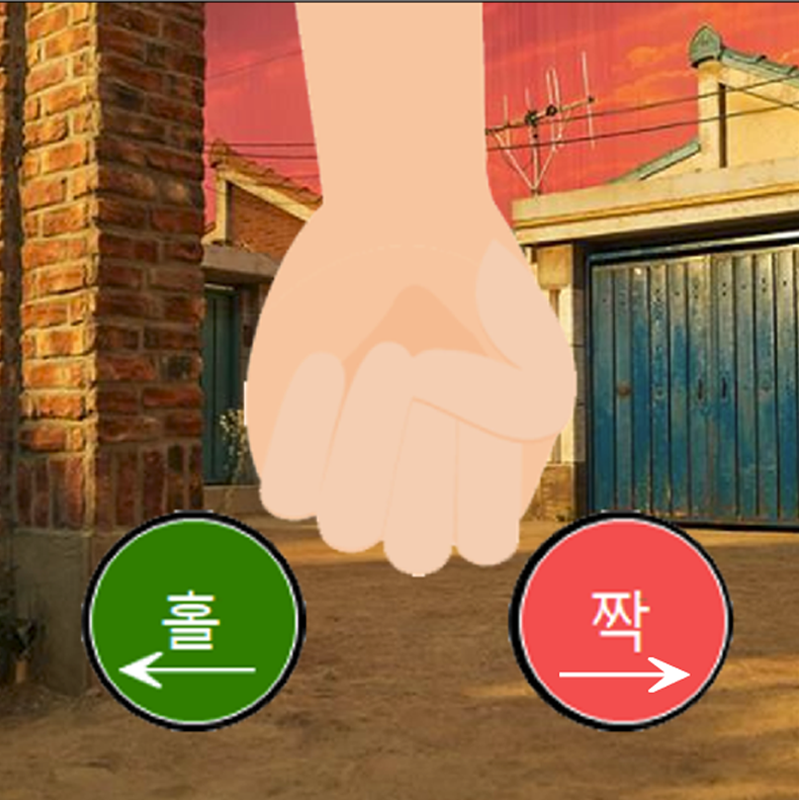
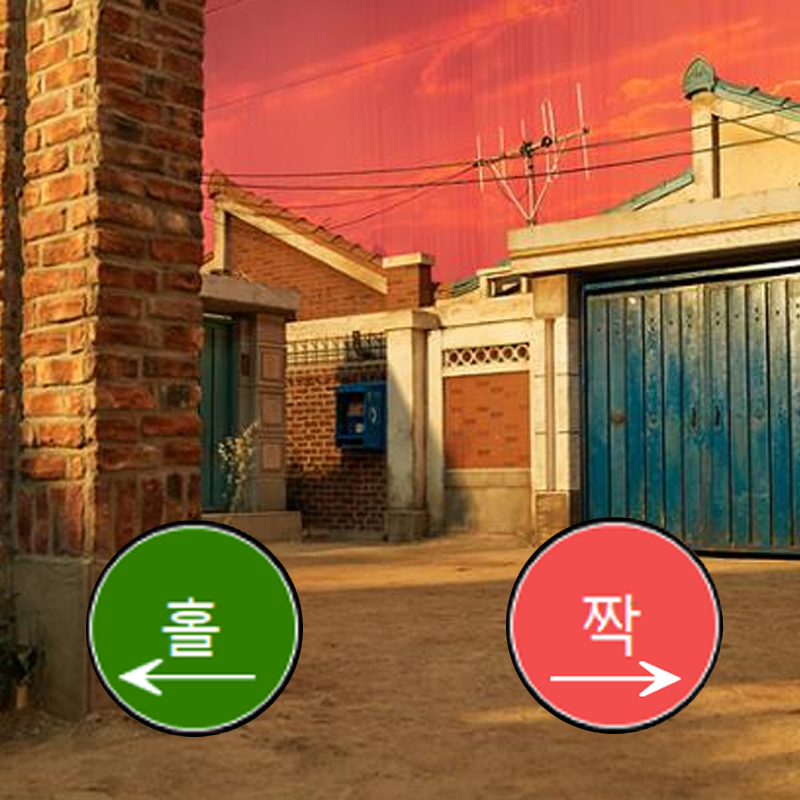
11.07 이준영 marble_game edit

diff --git a/Games/MarbleGame/marble_game.py b/Games/MarbleGame/marble_game.py
@@ -15,15 +15,23 @@ class MarbleGame:
     screen_buffer = 0  # 화면 대기 구현 변수
     marble_game_timer = 0
     fail_eff = 0
-    fail_eff_x = random.randint(-20, 20)
-    fail_eff_y = random.randint(-10, 10)
+    fail_eff_x = 0 #random.randint(-20, 20)
+    fail_eff_y = 0 #random.randint(-10, 10)
     xlocation = []  # 추후 상대 위치 리스트 만들기
     ylocation = []  # 추후 상대 위치 리스트 만들기
     score=0
     # 이미지 로딩
     imgBG = pygame.image.load("bg/bg.png")  # 배경 이미지
+    imgBGbase=pygame.image.load("bg/bgbase.png")
     imgTrue = pygame.image.load("imgs/True.png")  # 배팅 성공 이미지
     imgFalse = pygame.image.load("imgs/False.png")  # 배팅 실패 이미지
+    imgStart = pygame.image.load("imgs/gamestart.png")
+    imgHand1 = pygame.image.load("imgs/hand1.png")
+    imgHand2 = pygame.image.load("imgs/hand2.png")
+    imgHand3 = pygame.image.load("imgs/hand3.png")
+    imgHand4 = pygame.image.load("imgs/hand4.png")
+    imgHand5 = pygame.image.load("imgs/hand5.png")
+    imgNPC=pygame.image.load("imgs/NPC.png")
     gganbuplay=False
 
     def __init__(self,width,height):
@@ -50,23 +58,27 @@ class MarbleGame:
                                      self.ref_w, self.ref_h)
         message_to_screen_center(self.game_screen, '[ 조작법 ]', WHITE, korean_font_small_size,
                                      self.game_screen.get_height() / 3, self.ref_w, self.ref_h)
-        message_to_screen_center(self.game_screen, '상하 방향키로 구슬 선택', WHITE, korean_font_small_size,
+        message_to_screen_center(self.game_screen, '↑↓ 방향키로 구슬 선택', WHITE, korean_font_small_size,
                                      self.game_screen.get_height() / 2, self.ref_w, self.ref_h)
-        message_to_screen_center(self.game_screen, '좌우 방향키로 홀짝 선택', WHITE, korean_font_small_size,
-                                     self.game_screen.get_height() / 1.5, self.ref_w, self.ref_h)
+        message_to_screen_center(self.game_screen, '←→ 방향키로 홀짝 선택', WHITE, korean_font_small_size,
+                                     self.game_screen.get_height() / 1.7, self.ref_w, self.ref_h)
+        message_to_screen_center(self.game_screen, 'Enter&Return 키로 홀짝 힌트', WHITE, korean_font_small_size,
+                                 self.game_screen.get_height() / 1.5, self.ref_w, self.ref_h)
         message_to_screen_center(self.game_screen, 'Press Space Key', WHITE, korean_font_small_size,
                                      self.game_screen.get_height() / 1.25, self.ref_w, self.ref_h)
         self.score = 0
     def draw_game_over(self):
-        pygame.mixer.music.stop()
         self.game_screen.fill(BLACK)
-        message_to_screen_center(self.game_screen, "GAME OVER", WHITE, korean_font,
-                                 self.game_screen.get_height() / 4, self.ref_w, self.ref_h)
-        message_to_screen_center(self.game_screen, 'Press Enter or Return Key', WHITE, korean_font_small_size,
-                                 self.game_screen.get_height() / 1.25, self.ref_w, self.ref_h)
-        message_to_screen_left(self.game_screen, "SCORE : " + str(self.score), WHITE, korean_font,
-                               self.game_screen.get_width() / 2, self.game_screen.get_height() / 2, self.ref_w,
-                               self.ref_h)
+        self.imgNPC = pygame.transform.scale(self.imgNPC,(self.game_screen.get_width(), self.game_screen.get_height()))
+        self.game_screen.blit(self.imgNPC, [0, 0])
+        if self.screen_buffer <= self.marble_game_timer - 20:
+            self.game_screen.fill(BLACK)
+            if self.screen_buffer <= self.marble_game_timer - 30:
+                pygame.mixer.music.stop()
+                message_to_screen_center(self.game_screen, "GAME OVER", WHITE, korean_font,self.game_screen.get_height() / 4, self.ref_w, self.ref_h)
+                message_to_screen_center(self.game_screen, 'Press Enter or Return Key', WHITE, korean_font_small_size,self.game_screen.get_height() / 1.25, self.ref_w, self.ref_h)
+                message_to_screen_left(self.game_screen, "SCORE : " + str(self.score), WHITE, korean_font,self.game_screen.get_width() / 2, self.game_screen.get_height() / 2, self.ref_w,
+                                           self.ref_h)
     def level_up(self,score=0):
         self.game_screen.fill(BLACK)
         message_to_screen_center(self.game_screen, 'YOU WIN! LEVEL UP!', WHITE, korean_font,self.game_screen.get_height() / 4, self.ref_w, self.ref_h)
@@ -93,9 +105,10 @@ class MarbleGame:
                     self.player_betting = 1
                     self.idx = 1
                     if self.player_beads <= 0:
+                        self.marble_game_timer=0
+                        self.screen_buffer = self.marble_game_timer
                         self.idx = 13
                     if self.computer_beads <= 0:
-                        self.screen_buffer = self.marble_game_timer
                         self.idx = 11
             else:
                 self.imgFalse = pygame.transform.scale(self.imgFalse, (
@@ -110,9 +123,10 @@ class MarbleGame:
                     self.player_betting = 1
                     self.idx = 1
                     if self.player_beads <= 0:
+                        self.marble_game_timer = 0
+                        self.screen_buffer = self.marble_game_timer
                         self.idx = 13
                     if self.computer_beads <= 0:
-                        self.screen_buffer = self.marble_game_timer
                         self.idx = 11
     def draw_clear(self):
         pygame.mixer.music.stop()
@@ -138,6 +152,32 @@ class MarbleGame:
                 self.marble_game_timer = 0
                 self.screen_buffer=0
                 self.idx = 11
+    def draw_hand(self):
+        self.imgBGbase = pygame.transform.scale(self.imgBGbase,(self.game_screen.get_width(), self.game_screen.get_height()))
+        self.game_screen.blit(self.imgBGbase, [0, 0])
+        self.imgHand1 = pygame.transform.scale(self.imgHand1,(self.game_screen.get_width(), self.game_screen.get_height()))
+        self.game_screen.blit(self.imgHand1, [0, 0])
+        if self.screen_buffer <= self.marble_game_timer - 10:
+            self.game_screen.blit(self.imgBGbase, [0, 0])
+            self.imgHand3 = pygame.transform.scale(self.imgHand3,(self.game_screen.get_width(), self.game_screen.get_height()))
+            self.game_screen.blit(self.imgHand3, [0, 0])
+            if self.screen_buffer <= self.marble_game_timer - 15:
+                self.game_screen.blit(self.imgBGbase, [0, 0])
+                self.imgHand4 = pygame.transform.scale(self.imgHand4,(self.game_screen.get_width(), self.game_screen.get_height()))
+                if self.fail_eff > 0:
+                    self.fail_eff_x = random.randint(-10, 10)
+                    self.fail_eff = self.fail_eff - 1
+                self.game_screen.blit(self.imgHand4, [self.fail_eff_x, 0])
+                if self.screen_buffer <= self.marble_game_timer - 35:
+                    self.game_screen.blit(self.imgBGbase, [0, 0])
+                    self.game_screen.blit(self.imgHand4, [0, 0])
+                    if self.screen_buffer <= self.marble_game_timer - 40:
+                        self.imgStart = pygame.transform.scale(self.imgStart,(self.game_screen.get_width(),self.game_screen.get_height()))
+                        self.game_screen.blit(self.imgStart, [0, 0])
+                        if self.screen_buffer <= self.marble_game_timer - 50:
+                            game_over_timer = GameOverTimer(60)
+                            self.fail_eff = 0
+                            self.idx=1
 
     def start_marble_game(self):
         #배경 음악 로딩
@@ -165,16 +205,25 @@ class MarbleGame:
             if self.idx==0: #0은 타이틀 화면
                 self.draw_title()
                 if key[pygame.K_SPACE] == 1:
-                    game_over_timer = GameOverTimer(60)
-                    self.idx = 1  # 스페이스키 입력시 1번 화면으로 이동
+                    #game_over_timer = GameOverTimer(60)
+                    self.screen_buffer = self.marble_game_timer
+                    self.idx = 7  # 스페이스키 입력시 1번 화면으로 이동
+
+            if self.idx==7:
+                self.fail_eff = 10
+                self.draw_hand()
+                game_over_timer = GameOverTimer(60)
             if self.idx==1:
                 # 타이머
                 left_time = game_over_timer.time_checker()
                 self.imgBG=pygame.transform.scale(self.imgBG,(self.game_screen.get_width(),self.game_screen.get_height()))
                 self.game_screen.blit(self.imgBG,[0,0])
+                self.imgHand5 = pygame.transform.scale(self.imgHand5,(self.game_screen.get_width(), self.game_screen.get_height()))
                 if pygame.mixer.music.get_busy() == False: #bgm 재생 정지 상태라면
                     pygame.mixer.music.play(-1) #bgm 재생
                 if left_time<=0 :
+                    self.marble_game_timer = 0
+                    self.screen_buffer = self.marble_game_timer
                     self.idx = 13
                 if key[pygame.K_UP] and self.player_betting < self.player_beads and self.player_betting<self.computer_beads: self.player_betting += 1
                 if key[pygame.K_DOWN] and self.player_betting > 0: self.player_betting -= 1
@@ -240,24 +289,29 @@ class MarbleGame:
                 if self.fail_eff > 0:
                     self.fail_eff_x = random.randint(-10, 10)
                     self.fail_eff = self.fail_eff - 1
-                self.game_screen.blit(self.imgBG, [self.fail_eff_x, 0])
+                self.game_screen.blit(self.imgHand5, [self.fail_eff_x, 0])
 
 
-
-                message_to_screen_left(self.game_screen, str(left_time), WHITE, korean_font,
-                                       self.game_screen.get_width() / 2, self.game_screen.get_height() / 17, self.ref_w,
-                                       self.ref_h)
+                if left_time>=30:
+                    message_to_screen_left(self.game_screen, str(left_time), WHITE, korean_font,
+                                           self.game_screen.get_width() / 2.05, self.game_screen.get_height() / 20, self.ref_w,
+                                           self.ref_h)
+                else:
+                    message_to_screen_left(self.game_screen, str(left_time), RED, korean_font,
+                                           self.game_screen.get_width() / 2.05, self.game_screen.get_height() / 20,
+                                           self.ref_w,
+                                           self.ref_h)
                 message_to_screen_left(self.game_screen, "구슬 개수 : " + str(self.player_beads), WHITE, korean_font_small_size,
                                        self.game_screen.get_width() / 10, self.game_screen.get_height() / 17, self.ref_w,
                                        self.ref_h)
                 message_to_screen_left(self.game_screen, "상대 구슬 개수 : " + str(self.computer_beads), WHITE, korean_font_small_size,
-                                       self.game_screen.get_width() / 1.2, self.game_screen.get_height() / 17, self.ref_w,
+                                       self.game_screen.get_width() / 1.2, self.game_screen.get_height() / 40, self.ref_w,
                                        self.ref_h)
-                message_to_screen_left(self.game_screen, "배팅 : "+str(self.player_betting), WHITE, korean_font,
-                                       self.game_screen.get_width() / 2, self.game_screen.get_height() / 2, self.ref_w,
+                message_to_screen_left(self.game_screen, "배팅 : "+str(self.player_betting), WHITE, korean_font_small_size,
+                                       self.game_screen.get_width() / 2, self.game_screen.get_height() / 1.25, self.ref_w,
                                        self.ref_h)
-                message_to_screen_left(self.game_screen, "SCORE : " + str(self.score), WHITE, korean_font,
-                                       self.game_screen.get_width() / 2, self.game_screen.get_height() / 5, self.ref_w,
+                message_to_screen_left(self.game_screen, "SCORE : " + str(self.score), WHITE, korean_font_small_size,
+                                       self.game_screen.get_width() / 10, self.game_screen.get_height() / 40, self.ref_w,
                                        self.ref_h)
                 '''
                 message_to_screen_left(self.game_screen, "컴퓨터 배팅 test : " + str(self.computer_betting), WHITE, korean_font,
